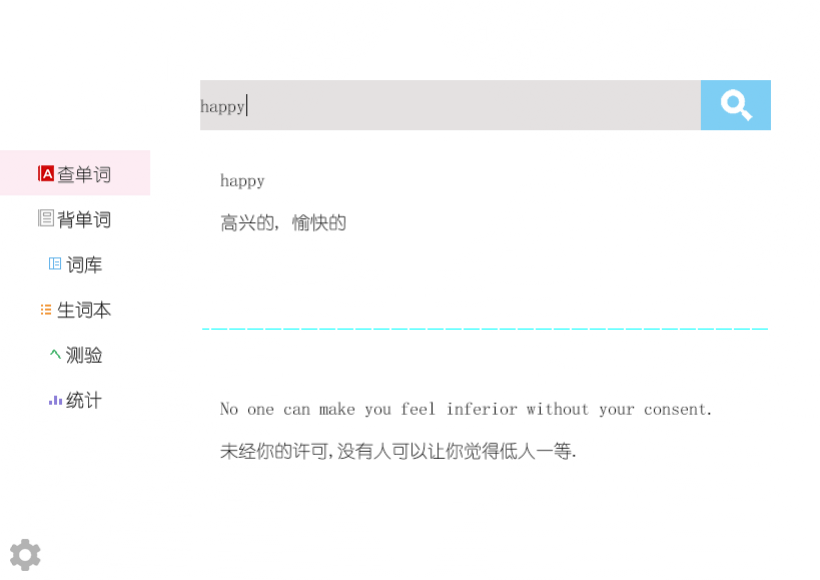
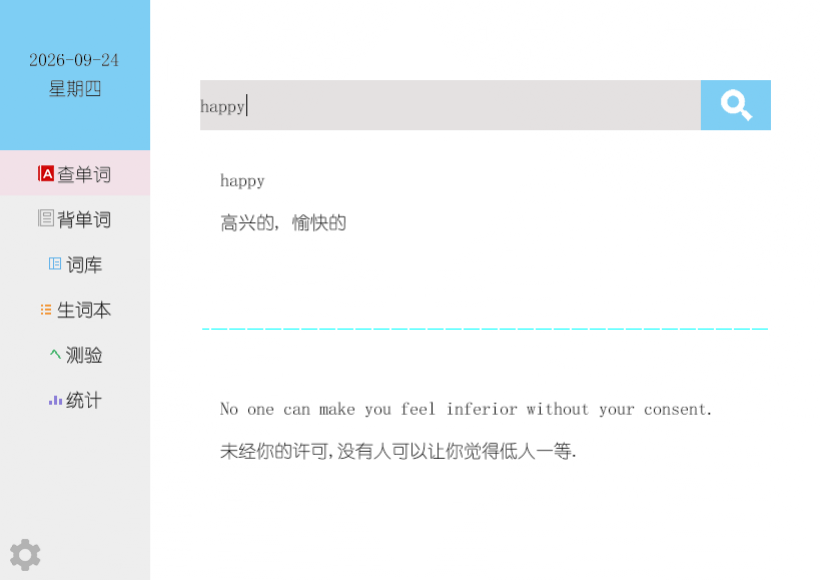
左上角蓝块补回日期和星期几
就是菜单最上面那块蓝色(icon/hint.png), 以前显示当天日期, 后来弄丢了。
翻了一遍历史(所有提交里 星期 零命中, 只剩 OptionOnePage 里一个没用的 Date date 字段和
"在哪放个日期"的注释, 上次已经删掉), 所以按原来的位置重新写了一份:

- DictionaryRender 在画完 hintTexture 之后, 用同一个 SpriteBatch 居中画两行:
  日期(yyyy-MM-dd) + 星期几; 字体走 FontCache.font18(), 跟菜单共用一份, 不额外占显存。
- 只有跨天了才重新算日期/星期, 平时只是重画。
- 蓝块的位置和大小提成了常量(HINT_X/HINT_Y/HINT_SIZE), 免得以后改位置忘了同步。

顺手修了截图脚本的一个盲点: 之前我是直接调 DictionaryLayout.render() 抓图的, 绕过了
DictionaryRender, 所以 core/assets/1.png、2.png 里连菜单灰底和蓝块都没画出来。现在改成
用真正的 DictionaryMain 渲染路径重拍, 两张图和实际界面一致了。

Changed region(s): [[0.0, 0.0, 0.1829, 0.2793]]

diff --git a/core/src/com/mini/dictionary/ui/DictionaryRender.java b/core/src/com/mini/dictionary/ui/DictionaryRender.java
@@ -3,16 +3,45 @@ package com.mini.dictionary.ui;
 import com.badlogic.gdx.Gdx;
 import com.badlogic.gdx.graphics.GL20;
 import com.badlogic.gdx.graphics.Texture;
+import com.badlogic.gdx.graphics.g2d.BitmapFont;
+import com.badlogic.gdx.graphics.g2d.GlyphLayout;
 import com.badlogic.gdx.graphics.g2d.SpriteBatch;
 import com.badlogic.gdx.utils.Disposable;
 import com.mini.dictionary.ui.layout.DictionaryLayout;
+import com.mini.dictionary.util.FontCache;
+
+import java.text.SimpleDateFormat;
+import java.util.Calendar;
+import java.util.Date;
+import java.util.Locale;
 
 public class DictionaryRender implements Disposable {
+    // 左上角蓝色块的位置和大小, 跟下面画 hintTexture 的地方保持一致
+    private static final float HINT_X = 0f;
+    private static final float HINT_Y = 430f;
+    private static final float HINT_SIZE = 150f;
+    // 日期和星期几在蓝色块里的纵向位置(字号 18, 两行居中)
+    private static final float DATE_Y = HINT_Y + 98f;
+    private static final float WEEK_Y = HINT_Y + 70f;
+
+    private static final String DAY_PATTERN = "yyyy-MM-dd";
+    private static final String[] WEEK_DAYS = {
+            "星期日", "星期一", "星期二", "星期三", "星期四", "星期五", "星期六"};
+
     private DictionaryLayout dictionaryLayout;
     private SpriteBatch batch;
 
     private Texture menuTexture;
     private Texture hintTexture;
+
+    // 蓝色块里的日期和星期几(以前有, 后来弄丢了, 这里补回来)
+    private final SimpleDateFormat dayFormat = new SimpleDateFormat(DAY_PATTERN, Locale.CHINA);
+    private final Date date = new Date();
+    private BitmapFont dateFont;
+    private final GlyphLayout layout = new GlyphLayout();
+    private String shownDay;
+    private String dateText = "";
+    private String weekText = "";
 
     public DictionaryRender(DictionaryLayout dictionaryLayout) {
         this.dictionaryLayout = dictionaryLayout;
@@ -23,6 +52,7 @@ public class DictionaryRender implements Disposable {
         batch = new SpriteBatch();
         menuTexture = new Texture(Gdx.files.internal("icon/menu_background.png"));
         hintTexture = new Texture(Gdx.files.internal("icon/hint.png"));
+        dateFont = FontCache.font18(); // 跟菜单共用一份字体, 不额外占显存
     }
 
     public void render() {
@@ -32,9 +62,27 @@ public class DictionaryRender implements Disposable {
     public void renderTestObject() {
         batch.begin();
         batch.draw(menuTexture,0,0,150,580); // 更改菜单灰色块的位置和大小
-        batch.draw(hintTexture,0,430,150,150); // 更改菜单蓝色块的位置和大小
+        batch.draw(hintTexture,HINT_X,HINT_Y,HINT_SIZE,HINT_SIZE); // 更改菜单蓝色块的位置和大小
+        drawDate(); // 蓝色块里的日期 + 星期几
         batch.end();
         dictionaryLayout.render();
+    }
+
+    /** 蓝色块里居中显示日期和星期几, 只有跨天了才重新算一次 */
+    private void drawDate() {
+        date.setTime(System.currentTimeMillis());
+        String day = dayFormat.format(date);
+        if (!day.equals(shownDay)) {
+            shownDay = day;
+            dateText = day;
+            Calendar calendar = Calendar.getInstance();
+            weekText = WEEK_DAYS[calendar.get(Calendar.DAY_OF_WEEK) - 1];
+        }
+        dateFont.setColor(1f, 1f, 1f, 1f); // 字体本身是深色的, 给白色相当于不上色
+        layout.setText(dateFont, dateText);
+        dateFont.draw(batch, dateText, HINT_X + (HINT_SIZE - layout.width) / 2f, DATE_Y);
+        layout.setText(dateFont, weekText);
+        dateFont.draw(batch, weekText, HINT_X + (HINT_SIZE - layout.width) / 2f, WEEK_Y);
     }
 
     @Override
@@ -43,5 +91,6 @@ public class DictionaryRender implements Disposable {
         menuTexture.dispose();
         hintTexture.dispose();
         dictionaryLayout.dispose();
+        // dateFont 是 FontCache 里共享的, 不在这里 dispose
     }
 }
